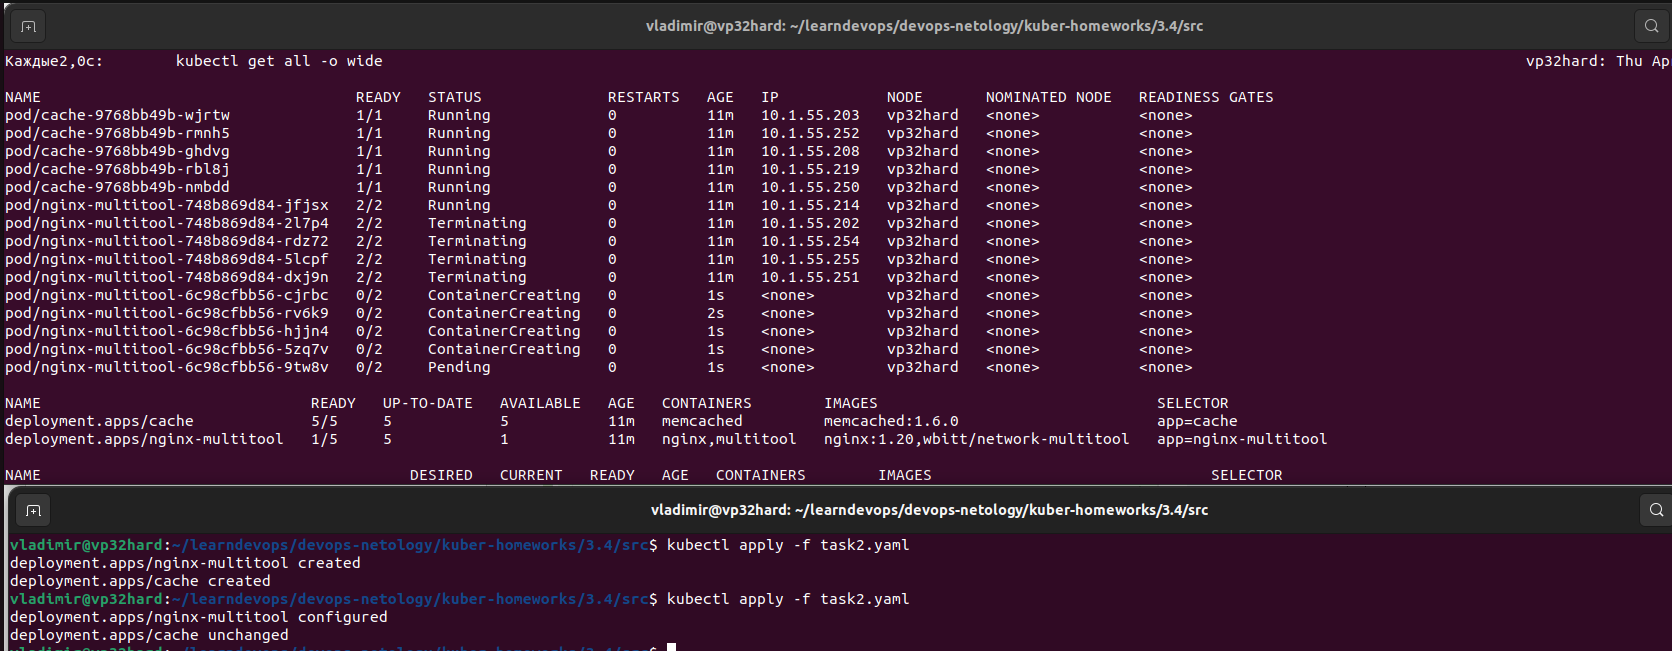
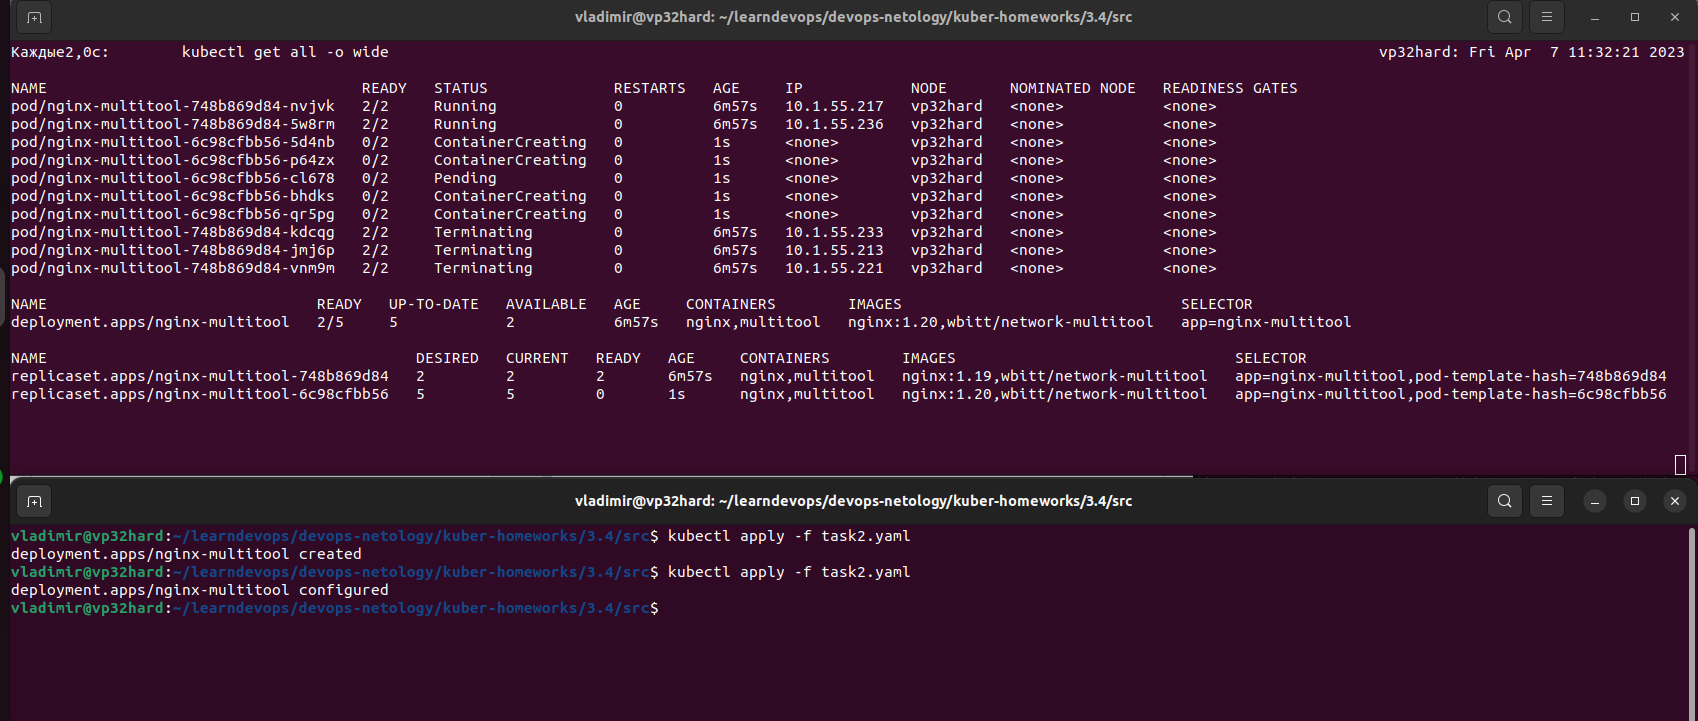
Домашнее задание к занятию "Стратегии обновлений приложений"

diff --git a/kuber-homeworks/3.4/README.md b/kuber-homeworks/3.4/README.md
@@ -13,21 +13,21 @@
 
 В зависимости от специфики использования приложения я бы использовал следуюшие стратегии:
 
- - **Recreate**: если допустима недоступность приложения. При таком обновлении мы не будем использовать дополнительные ресурсы, так как у нас нет возможности их увеличиить. Старые реплики будут уничтожены и запущены обновленные вместо них. Кроме того, если клиенты приложения также должны обновиться (например, фронт для бэка) и у них не будет обратной совместимости, то при успешном обновлении приложения клиент новой версии не столкнется со старой версией приложения. Старым клиентам надо будет сразу закрывать доступ.
  - **Canary update**: если недоступность приложения недопустима. При таком обновлении также не будут использованы дополнительные ресурсы. Указано, что у нас есть запас по ресурсам 20%. Как раз этот запас можно задействовать для поочередного обновления по 20% реплик. Но при этом необходимо разграничивать трафик от новых и старых клиентов приложения к обновленным и необновленным репликам. Постепенно при удачном обновлении все реплики обновятся, и старым клиентам будет закрыт доступ.
+ - **Recreate**: если допустима недоступность приложения. При таком обновлении мы не будем использовать дополнительные ресурсы, так как у нас нет возможности их увеличиить. Старые реплики будут уничтожены и запущены обновленные вместо них. Кроме того, если клиенты приложения также должны обновиться (например, фронт для бэка) и у них не будет обратной совместимости, то при успешном обновлении приложения клиент новой версии не столкнется со старой версией приложения. Старым клиентам надо будет сразу закрывать доступ.
+
 
 ### Задание 2. Обновить приложение
 
-1. Создать deployment приложения с контейнерами nginx и multitool. Версию nginx взять 1.19. Кол-во реплик - 5
-2. Создать deployment приложения кеш с контейнером memcached. Версию memcached взять 1.6.0. Кол-во реплик - 5
-3. Обновить версию nginx в приложении до версии 1.20 сократив время обновления до минимума. Приложение должно быть доступно
-4. Обновить версию memcached в приложении до версии 1.6.5 сократив время обновления до минимума.
-5. Попытаться обновить nginx до версии 1.28, приложение должно оставаться доступным
-6. Откатиться после неудачного обновления
+1. Создать deployment приложения с контейнерами nginx и multitool. Версию nginx взять 1.19. Кол-во реплик - 5 
+2. Обновить версию nginx в приложении до версии 1.20 сократив время обновления до минимума. Приложение должно быть доступно 
+3. Попытаться обновить nginx до версии 1.28, приложение должно оставаться доступным 
+4. Откатиться после неудачного обновления
+
 
 **Решение:**
 
-1-2. Исходный манифест для двух деплойментов:
+1. Манифест для deployment:
 
 ```yaml
 apiVersion: apps/v1
@@ -41,8 +41,8 @@ spec:
   strategy:
     type: RollingUpdate
     rollingUpdate:
-      maxSurge: 25%
-      maxUnavailable: 80%
+      maxSurge: 2
+      maxUnavailable: 3
   selector:
     matchLabels:
       app: nginx-multitool
@@ -65,100 +65,48 @@ spec:
           value: "8080"
         - name: HTTPS_PORT
           value: "11443"
----
-apiVersion: apps/v1
-kind: Deployment
-metadata:
-  name: cache
-  labels:
-    app: cache
-spec:
-  replicas: 5
-  strategy:
-    type: Recreate
-  selector:
-    matchLabels:
-      app: cache
-  template:
-    metadata:
-      labels:
-        app: cache
-    spec:
-      containers:
-      - name: memcached
-        image: memcached:1.6.0
 ```
 
-Применяю манифест, все успешно стартует:
+Применяю манифест, деплоймент успешно создается:
 
 ![1.png](img%2F1.png)
 
-3. Для обновления деплоймента с nginx применяю стратегию RollingUpdate, так как есть требование, чтобы приложение оставалось доступным.
+2. Для обновления использую стратегию Rolling Update. Чтобы приложение оставалось доступным во время обновления, использую параметр maxUnavailable: 3. Тогда у нас пойдут на обновление 3 реплики, и 2 останутся доступным. При этом для сокращения времени обновления использую параметр maxSurge: 2. За счет этого сразу же начнут создаваться 2 реплики. Если обновление пойдет удачно, то у нас будет готово 5 реплик (3 + 2). Оставшиеся 2 старые реплики будут остановлены. Если обновление пойдет неудачно, то у нас останется 2 старых работающих реплики.
 
-Для сокращения времени обновления ставлю следуюее значение параметра:
-maxUnavailable: 80% - будет сразу обновляться 80% реплик, то есть 4 реплики из 5. Одна реплика остается доступной. Параметр maxSurge: 25% оставляю по умолчанию, получается, что при обновлении дополнительно будет создана еще одна реплика. При успешном обновлении 4 реплик (и также создании новой по maxSurge) будет затем удалена оставшая старая реплика. 
-
-Обновляю версию nginx в манифесте, применяю его:
+Меняю версию nginx в манифесте:
 
 ```
-    ...
-    spec:
       containers:
       - name: nginx
         image: nginx:1.20
-    ...
+        ports:
 ```
 
-Пошел процесс обновления, 4 реплики уничтожаются, пятая создается, одна старая доступна:
+Применяю манифест:
+
+пошло обновление, остановилось 3 старых реплики и создается 5 новых:
 ![2.png](img%2F2.png)
 
-nginx успено обновлен:
-
+приложение успешно обновилось:
 ![3.png](img%2F3.png)
 
-4. Для обновления memcached использую стратегию Recreate, так как нет требования о постоянной доступности, и надо сократить время обновления до минимума.
-
-Обновляю версию memcached в манифесте, применяю его: 
+3. Меняю версию nginx в манифесте:
 
 ```
-    ...
-    spec:
-      containers:
-      - name: memcached
-        image: memcached:1.6.5
-    ...
-```
-
-Не успеваю поймать момент пересоздания подов с memcached, практически сразу пересоздаются успешно:
-
-![4.png](img%2F4.png)
-
-5. Пытаюсь обновить nginx до версии 1.28. Обновляю версию в манифесте, применяю его:
-
-
-```
-    ...
-    spec:
       containers:
       - name: nginx
         image: nginx:1.28
-    ...
+        ports:
 ```
 
-Применяются изменения:
+Применяю обновление. Пошли ошибки при создании подов, но остаются рабочими 2 реплики, за счет чего приложение остается доступным:
+
+![4.png](img%2F4.png)
+
+4. Откатываю обновление командой `kubectl rollout undo deployment nginx-multitool`.
+
+Реплики восстанавливаются на предыдущей версии nginx 1.20:
 
 ![5.png](img%2F5.png)
 
-Пошли ошибки в 5 новых подах, 1 остается без обновления и продолжает работу:
-
 ![6.png](img%2F6.png)
-
-6. С помощью команды `kubectl rollout undo deployment nginx-multitool` откатываю неудачное обновление:
-
-начался откат обновления:
-![7.png](img%2F7.png)
-
-обновление успешно откатилось:
-![8.png](img%2F8.png)
-
-
